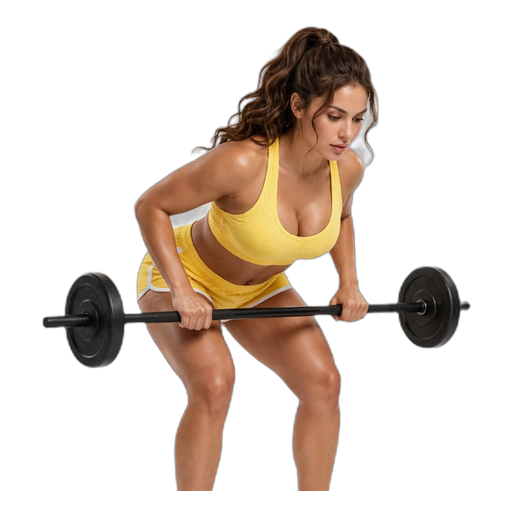
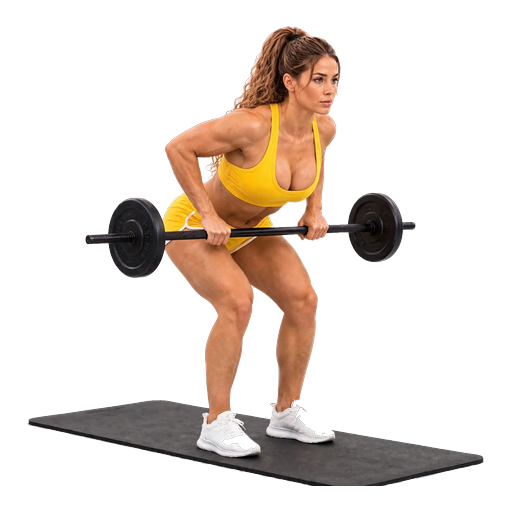
1.8.39 : 5 nouvelles icônes d'exercices, 3 remplacées
Claude-Session: https://claude.ai/code/session_01D2bERS7WBZgExNoVRodtwC

diff --git a/js/catalogue.js b/js/catalogue.js
@@ -50,13 +50,13 @@ const CATALOGUE = [
   {"id": 40, "name": "Développé haltères", "group": "Pectoraux", "poly": true, "mode": "weight", "sets": 3, "reps": "8–12", "rest": 120, "icon": "icons/dumbbell_bench_press.png"},
   {"id": 41, "name": "Développé incliné", "group": "Pectoraux", "poly": true, "mode": "weight", "sets": 3, "reps": "8–12", "rest": 120, "icon": "icons/incline_bench.png"},
   {"id": 42, "name": "Développé incliné haltères", "group": "Pectoraux", "poly": true, "mode": "weight", "sets": 3, "reps": "8–12", "rest": 120, "icon": "icons/incline_dumbbell_press.png"},
-  {"id": 43, "name": "Développé décliné", "group": "Pectoraux", "poly": true, "mode": "weight", "sets": 3, "reps": "8–12", "rest": 120},
+  {"id": 43, "name": "Développé décliné", "group": "Pectoraux", "poly": true, "mode": "weight", "sets": 3, "reps": "8–12", "rest": 120, "icon": "icons/decline_bench.png"},
   {"id": 44, "name": "Dips", "group": "Pectoraux", "poly": true, "mode": "bw", "sets": 3, "reps": "8–12", "rest": 120, "icon": "icons/dips.png"},
   {"id": 45, "name": "Pompes", "group": "Pectoraux", "poly": true, "mode": "reps", "sets": 3, "reps": "8–15", "rest": 90, "icon": "icons/push_ups.png"},
   {"id": 46, "name": "Pompes lestées", "group": "Pectoraux", "poly": true, "mode": "bw", "sets": 3, "reps": "8–12", "rest": 120, "icon": "icons/weighted_push_ups.png"},
   {"id": 47, "name": "Écarté haltère", "group": "Pectoraux", "mode": "weight", "sets": 3, "reps": "10–15", "rest": 90, "icon": "icons/dumbbell_fly.png"},
   {"id": 48, "name": "Écarté incliné haltères", "group": "Pectoraux", "mode": "weight", "sets": 3, "reps": "10–15", "rest": 90, "icon": "icons/incline_dumbbell_fly.png"},
-  {"id": 49, "name": "Écarté poulie", "group": "Pectoraux", "mode": "weight", "sets": 3, "reps": "10–15", "rest": 90},
+  {"id": 49, "name": "Écarté poulie", "group": "Pectoraux", "mode": "weight", "sets": 3, "reps": "10–15", "rest": 90, "icon": "icons/cable_fly.png"},
   {"id": 50, "name": "Pull-over poulie", "group": "Pectoraux", "mode": "weight", "sets": 3, "reps": "10–15", "rest": 90, "icon": "icons/cable_pullover.png"},
   {"id": 51, "name": "Développé militaire", "group": "Épaules", "poly": true, "mode": "weight", "sets": 3, "reps": "6–10", "rest": 180, "icon": "icons/overhead_press.png"},
   {"id": 52, "name": "Développé haltères assis", "group": "Épaules", "poly": true, "mode": "weight", "sets": 3, "reps": "8–12", "rest": 120, "icon": "icons/seated_dumbbell_press.png"},
@@ -68,7 +68,7 @@ const CATALOGUE = [
   {"id": 58, "name": "Tirage menton", "group": "Épaules", "poly": true, "mode": "weight", "sets": 3, "reps": "10–15", "rest": 90, "icon": "icons/upright_row.png"},
   {"id": 59, "name": "Curl biceps", "group": "Bras", "mode": "weight", "sets": 3, "reps": "10–15", "rest": 90, "icon": "icons/biceps_curl.png"},
   {"id": 60, "name": "Curl barre EZ", "group": "Bras", "mode": "weight", "sets": 3, "reps": "10–15", "rest": 90, "icon": "icons/ez_bar_curl.png"},
-  {"id": 62, "name": "Curl incliné", "group": "Bras", "mode": "weight", "sets": 3, "reps": "10–15", "rest": 90},
+  {"id": 62, "name": "Curl incliné", "group": "Bras", "mode": "weight", "sets": 3, "reps": "10–15", "rest": 90, "icon": "icons/incline_curl.png"},
   {"id": 63, "name": "Curl marteau", "group": "Bras", "mode": "weight", "sets": 3, "reps": "10–15", "rest": 90, "icon": "icons/hammer_curl.png"},
   {"id": 64, "name": "Curl poulie", "group": "Bras", "mode": "weight", "sets": 3, "reps": "10–15", "rest": 90},
   {"id": 65, "name": "Curl concentration", "group": "Bras", "mode": "weight", "sets": 3, "reps": "10–15", "rest": 90, "icon": "icons/concentration_curl.png"},
@@ -83,12 +83,12 @@ const CATALOGUE = [
   {"id": 75, "name": "Relevés de jambes au sol", "group": "Abdos", "mode": "reps", "sets": 3, "reps": "15–20", "rest": 60, "icon": "icons/lying_leg_raises.png"},
   {"id": 76, "name": "Planche", "group": "Abdos", "mode": "time", "sets": 3, "reps": "20–45 s", "rest": 60, "icon": "icons/plank.png"},
   {"id": 77, "name": "Gainage latéral", "group": "Abdos", "mode": "time", "sets": 3, "reps": "20–45 s", "rest": 60, "icon": "icons/side_plank.png"},
-  {"id": 78, "name": "Rotation russe", "group": "Abdos", "mode": "reps", "sets": 3, "reps": "15–20", "rest": 60},
+  {"id": 78, "name": "Rotation russe", "group": "Abdos", "mode": "reps", "sets": 3, "reps": "15–20", "rest": 60, "icon": "icons/russian_twist.png"},
   {"id": 79, "name": "Ab wheel", "group": "Abdos", "mode": "reps", "sets": 3, "reps": "8–15", "rest": 90, "icon": "icons/ab_wheel.png"},
   {"id": 24, "name": "Corde à sauter", "group": "Cardio", "mode": "time", "sets": 1, "reps": "", "rest": 0, "cardio": true, "icon": "icons/jump_rope.png"},
   {"id": 80, "name": "Rameur", "group": "Cardio", "mode": "dist", "sets": 1, "reps": "", "rest": 0, "cardio": true, "unit": "pace500", "icon": "icons/rower.png"},
   {"id": 81, "name": "Vélo", "group": "Cardio", "mode": "dist", "sets": 1, "reps": "", "rest": 0, "cardio": true, "unit": "kmh", "icon": "icons/stationary_bike.png"},
-  {"id": 82, "name": "Tapis de course", "group": "Cardio", "mode": "dist", "sets": 1, "reps": "", "rest": 0, "cardio": true, "unit": "pacekm"},
+  {"id": 82, "name": "Tapis de course", "group": "Cardio", "mode": "dist", "sets": 1, "reps": "", "rest": 0, "cardio": true, "unit": "pacekm", "icon": "icons/treadmill.png"},
   {"id": 85, "name": "Ski trainer", "group": "Cardio", "mode": "dist", "sets": 1, "reps": "", "rest": 0, "cardio": true, "unit": "pace500", "icon": "icons/ski_erg.png"},
   {"id": 86, "name": "Vélo elliptique", "group": "Cardio", "mode": "dist", "sets": 1, "reps": "", "rest": 0, "cardio": true, "unit": "kmh", "icon": "icons/elliptical.png"},
   {"id": 87, "name": "Stair climber", "group": "Cardio", "mode": "floors", "sets": 1, "reps": "", "rest": 0, "cardio": true, "unit": "floorsmin", "icon": "icons/stair_climber.png"},

diff --git a/sw.js b/sw.js
@@ -4,7 +4,7 @@
 // APP_VERSION doit être incrémenté à chaque release (en même temps que
 // manifest.json) : le navigateur ne réinstalle le service worker que si
 // le contenu de ce fichier change.
-const APP_VERSION = '1.8.38';
+const APP_VERSION = '1.8.39';
 // 1.7.64 (co-auteur : Claude) : production (…/suivi-fitness/) et test (…/suivi-fitness/dev/) sont sur le même
 // domaine et partagent le stockage des caches : chaque version nomme ses caches d'après son dossier et ne
 // supprime que les siens (plus les anciens caches sans dossier, d'avant la 1.7.64).
@@ -98,6 +98,11 @@ const ASSETS = [
   './icons/seated_row.png',
   './icons/triceps_extension.png',
   './icons/walking_lunge.png',
+  './icons/decline_bench.png',
+  './icons/cable_fly.png',
+  './icons/incline_curl.png',
+  './icons/russian_twist.png',
+  './icons/treadmill.png',
   './icons/side_plank.png',
   './icons/dumbbell_fly.png',
   './icons/incline_dumbbell_fly.png',

diff --git a/CHANGELOG.md b/CHANGELOG.md
@@ -7,6 +7,14 @@ et ce projet respecte [Semantic Versioning](https://semver.org/spec/v2.0.0.html)
 
 ---
 
+## [1.8.39] - 2026-11-18
+### 🎨 Icônes d'exercices : 5 nouvelles, 3 remplacées (co-auteur : Claude)
+- Nouvelles : Développé décliné, Écarté poulie, Curl incliné, Rotation russe, Tapis de course (photos fournies, détourées). Les chaussures blanches sur fond blanc ont été redessinées au contour, l'ombre au sol retirée ; pour l'écarté poulie, seules les têtes de poulie sont gardées (montants retirés).
+- Remplacées : Relevés de jambes suspendu (l'ancienne image était incohérente), Curl biceps, Rowing barre.
+- Il reste 3 exercices sans icône : Curl poulie, Extension triceps haltère, Crunch à la poulie.
+
+---
+
 ## [1.8.38] - 2026-11-17
 ### 🖼 Nouveau fond d'écran « Slam ball » (co-auteur : Claude)
 - **Ajouté** dans Réglages › Fond d'écran, rangé avec les gros plans sombres après *Rack* : *Slam ball* (slam ball rouge de 5 kg et barre sur tapis noir, vue de dessus). Photo d'Eduardo Cano (Unsplash), fournie par l'auteur de l'app.
